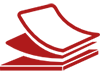
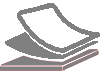
Sistema de navegacion en recursos

diff --git a/IUS/IUS/Scripts/views/Repositorio/Indexi/script.js b/IUS/IUS/Scripts/views/Repositorio/Indexi/script.js
@@ -1,3 +1,14 @@
 $(document).ready(function () {
+    // eventos 
+    $(document).on("click", ".menuLateral li", function () {
+        //$(this).addClass("activeRecurso");
 
+        $(".activeRecurso").find(".imgLateral").attr("src", $(".activeRecurso").find(".txtHdNormal").val());
+        $(".activeRecurso").removeClass("activeRecurso");
+        
+        $(this).find(".imgLateral").attr("src", $(this).find(".txtHdRoja").val());
+        $(this).addClass("activeRecurso");
+
+        window.history.pushState({}, "Titulo", "/Repositorio/index/");
+    })
 })

diff --git a/IUS/IUS/Content/ius_theme/views/Repositorio/Indexi/style.css b/IUS/IUS/Content/ius_theme/views/Repositorio/Indexi/style.css
@@ -103,3 +103,9 @@
     padding-top:10px;
     
 }
+
+.activeRecurso{
+    border-color:#cd1315 !important;
+    color:#cd1315;
+    font-weight:bold;
+}
